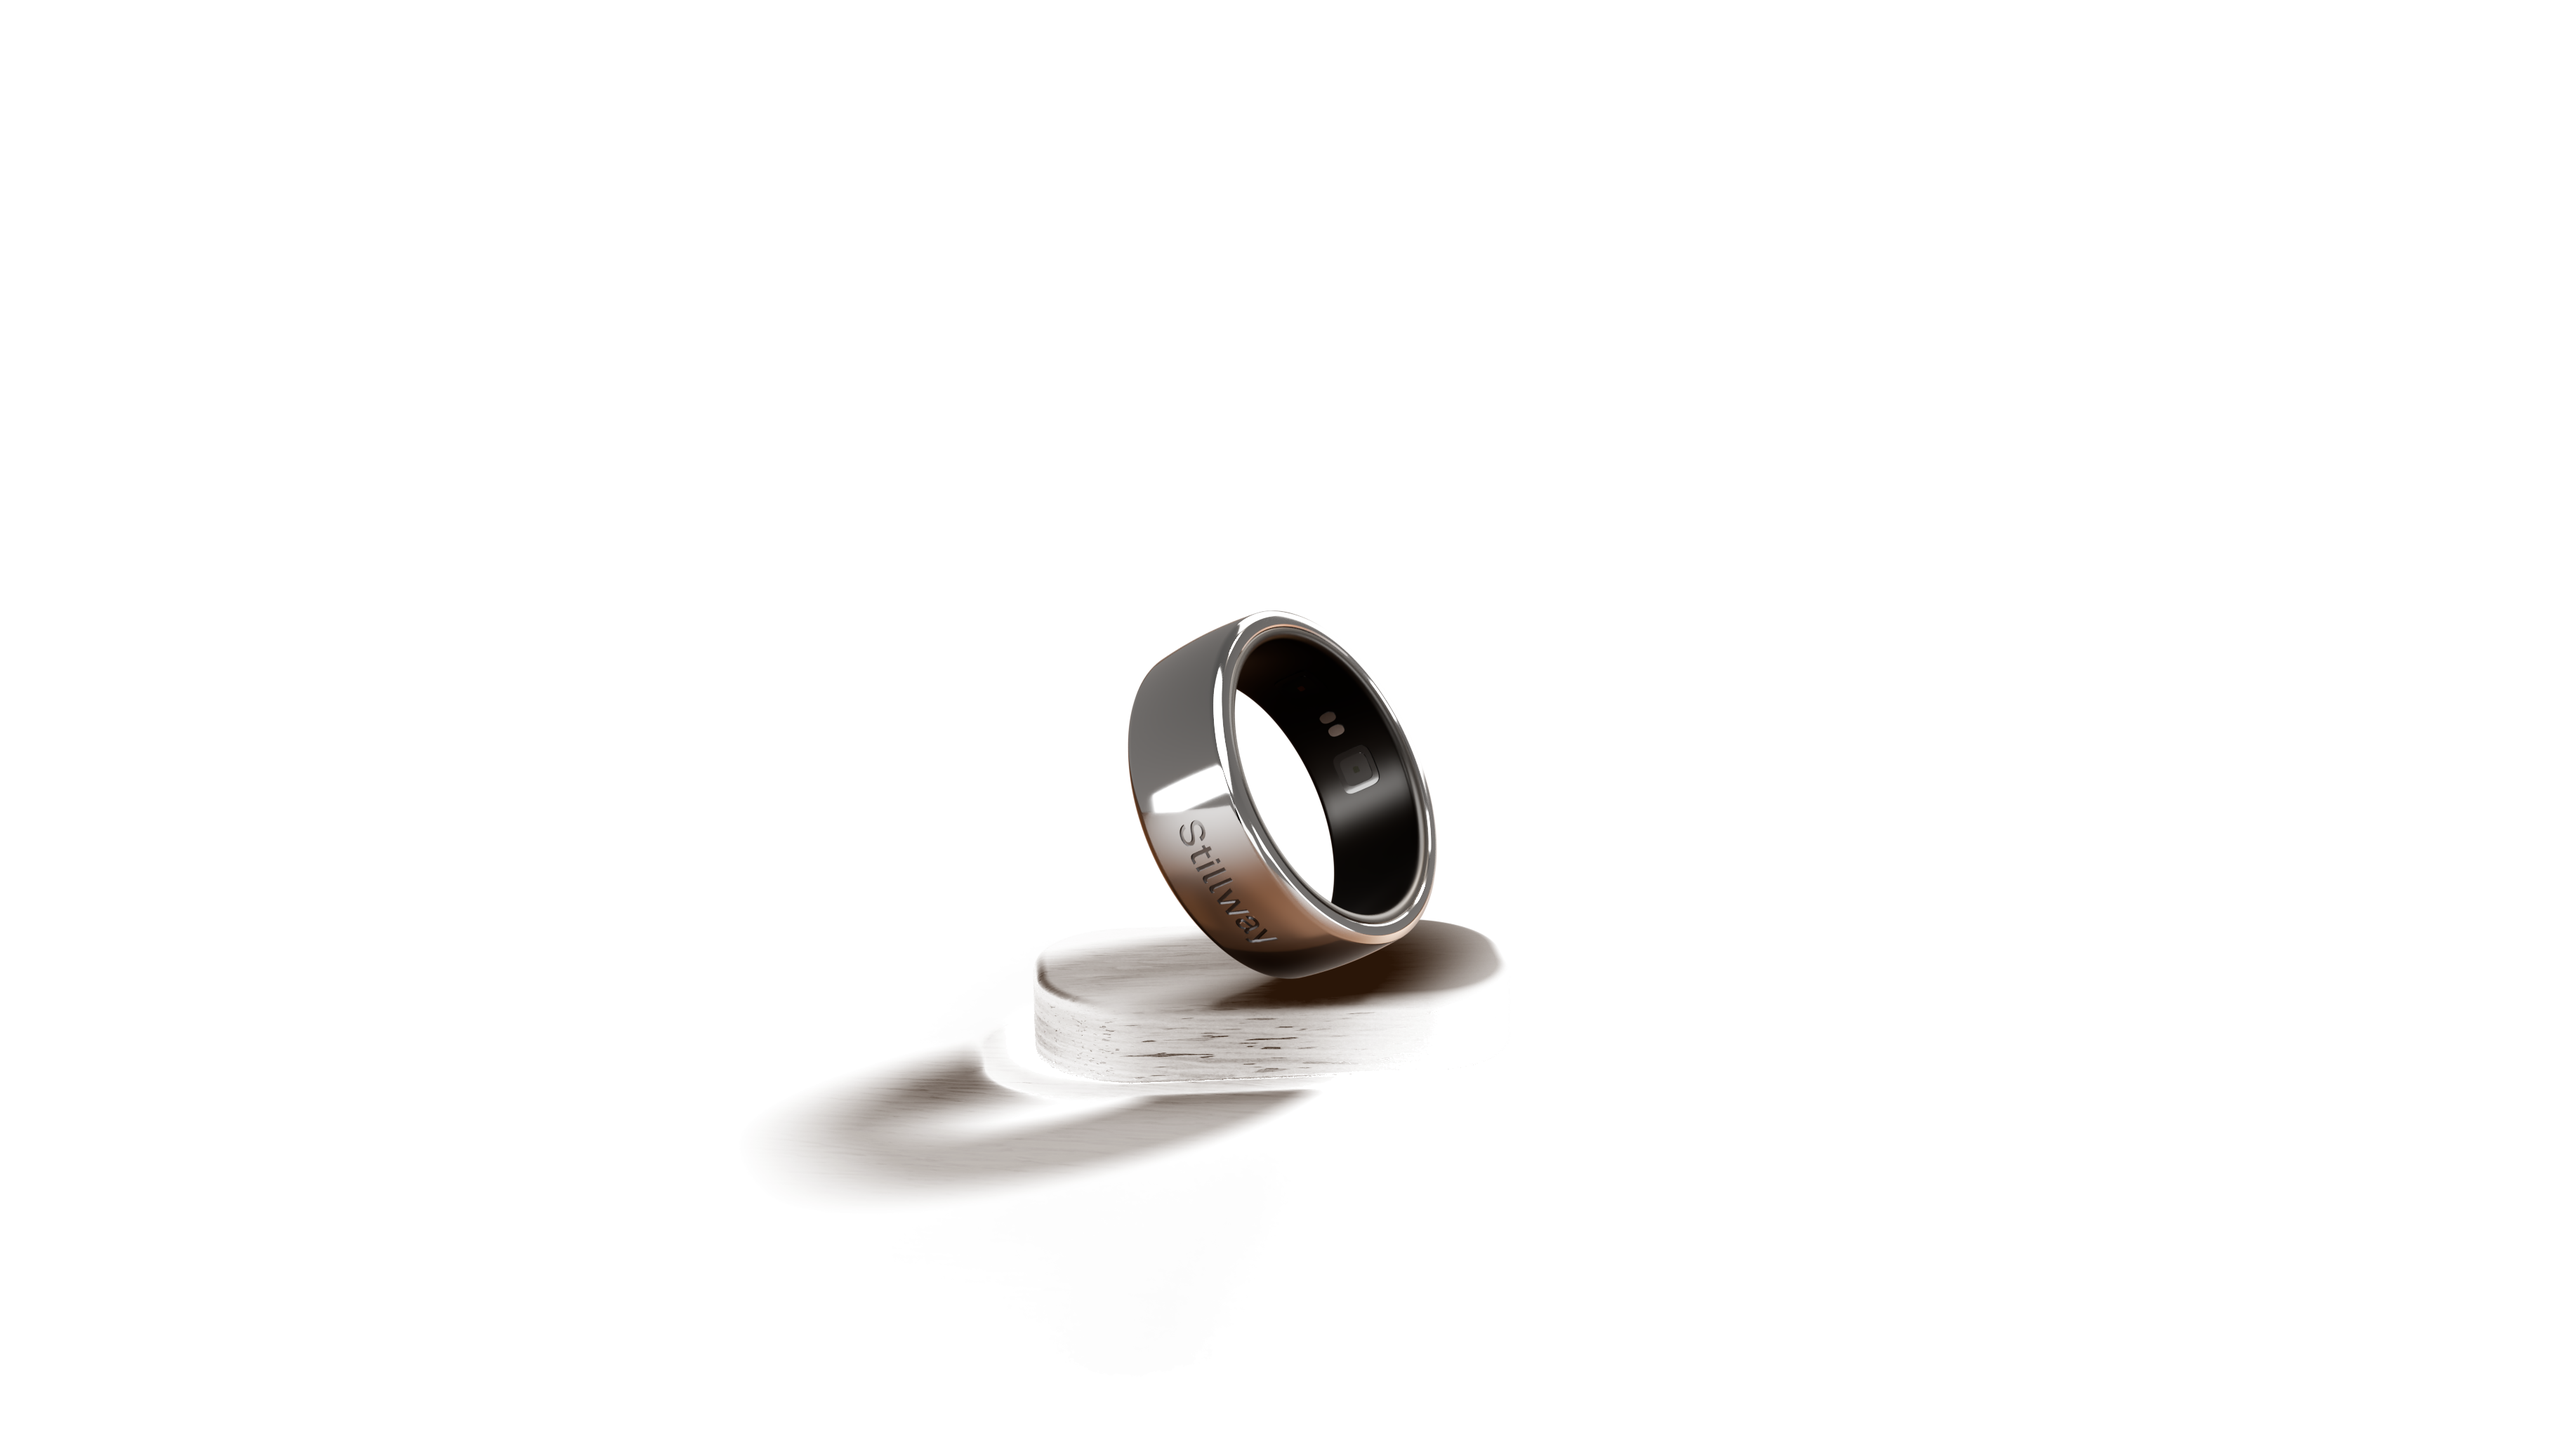
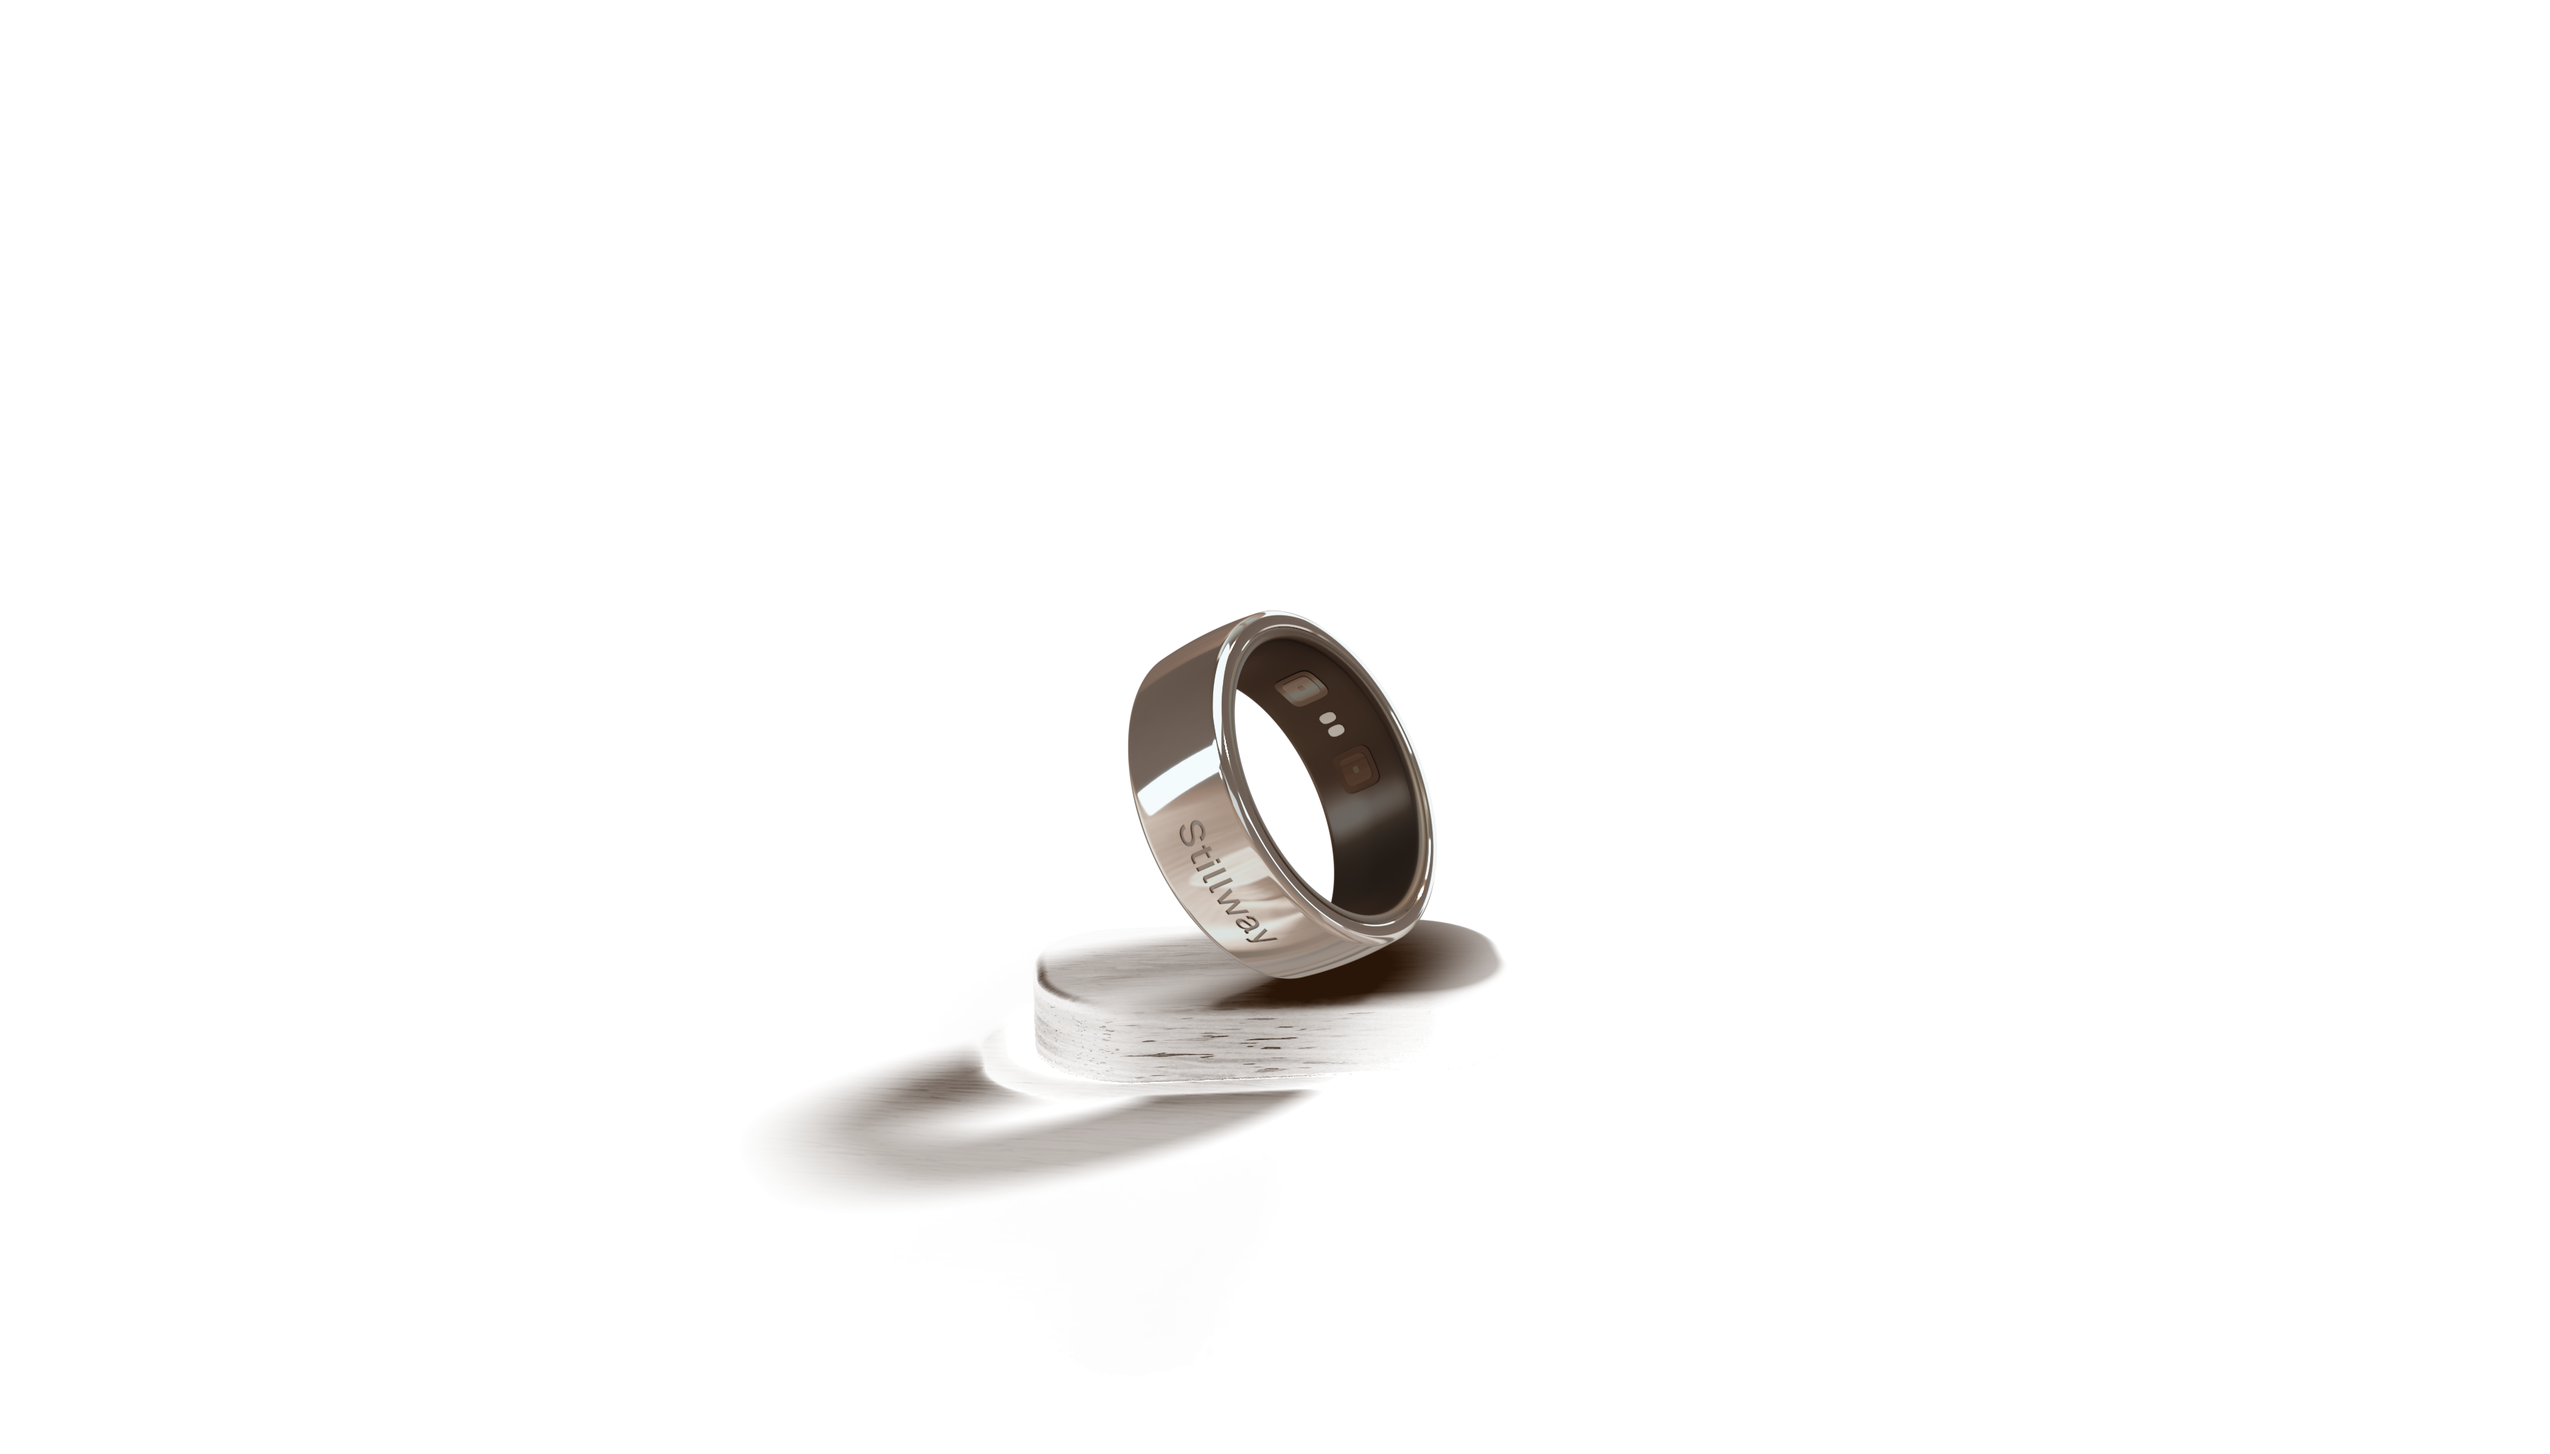
feat(3d): S01 poster ring matched to the D-182 live web ring (photo env + 25% paper, rig, silver tone), plates/GLB/pose unchanged (D-182b)

Changed region(s): [[0.4356, 0.4324, 0.56, 0.6795]]

diff --git a/design/3d/v2/s01-ring-live-pass.py b/design/3d/v2/s01-ring-live-pass.py
@@ -1,0 +1,171 @@
+"""
+D-182b: S01 poster RING pass matched to the live web ring (Developer a7eea87, D-182). Only RG/RGm change.
+    Blender -b -P design/3d/v2/s01-ring-live-pass.py          # then: s01-plate-build.py -- comp
+Cycles render of the ring alone, lit like the web at rest: env = hero-env-warm.jpg (rotated 0.6 pi, seam
+cross-faded) with 25 % paper env, in CAMERA space (the web camera never turns); web rig (sun, hemisphere,
+fill, desk key); web band material; AgX, exposure 1.15. Then a monotonic luma curve maps the ring's
+p05/25/50/75/95 (1440@2x web rest frame) to the live values and per-channel gains set the live mean colour.
+"""
+import bpy, os, math, importlib.util
+import numpy as np
+from mathutils import Vector
+
+HERE = os.path.dirname(os.path.abspath(__file__))
+spec = importlib.util.spec_from_file_location("pb", HERE + "/s01-plate-build.py")
+pb = importlib.util.module_from_spec(spec); spec.loader.exec_module(pb)
+ped, PASS = pb.ped, pb.PASS
+WEB_PHOTO = HERE + "/env/hero-env-warm.jpg"
+if not os.path.exists(WEB_PHOTO):
+    WEB_PHOTO = os.path.join(HERE, "../../../../Developer/web-v2/public/env/hero-env-warm.jpg")
+TARGET = (33, 50, 100, 155, 245)          # live ring luma p05..p95 (D-182)
+TARGET_RGB = np.array([120, 108, 99], np.float32)   # live mean colour (D-182, middle of the sway range)
+
+
+def pixels(img):
+    w, h = img.size
+    a = np.empty(w * h * 4, np.float32); img.pixels.foreach_get(a)
+    return a.reshape(h, w, 4)[..., :3]            # bottom-up
+
+
+def sample(a, u, v):
+    h, w = a.shape[:2]
+    x = (u % 1.0) * w - 0.5; y = np.clip(v, 0, 1) * h - 0.5
+    x0 = np.floor(x).astype(int); y0 = np.floor(y).astype(int)
+    fx = (x - x0)[..., None]; fy = (y - y0)[..., None]
+    g = lambda i, j: a[np.clip(j, 0, h - 1), i % w]
+    return (g(x0, y0) * (1 - fx) + g(x0 + 1, y0) * fx) * (1 - fy) + (g(x0, y0 + 1) * (1 - fx) + g(x0 + 1, y0 + 1) * fx) * fy
+
+
+def web_env(R):
+    """equirect in Blender world space holding the web's blended env (linear)"""
+    photo = pixels(bpy.data.images.load(WEB_PHOTO))               # sRGB values (byte image)
+    paper = pixels(bpy.data.images.load(ped.ENV))                 # linear EXR
+    W, H = 2048, 1024
+    u = (np.arange(W) + 0.5) / W; v = (np.arange(H) + 0.5) / H
+    phi = (u - 0.5) * 2 * math.pi; th = (v - 0.5) * math.pi
+    phi, th = np.meshgrid(phi, th)
+    # Blender equirect: u = 0.5 - atan2(y, x) / 2 pi
+    d = np.stack([np.cos(th) * np.cos(-phi), np.cos(th) * np.sin(-phi), np.sin(th)], -1)
+    c = d @ np.array(R, np.float64)                               # camera space: x right, y up, z back (= three world)
+    rot = math.pi * 0.6; cs, sn = math.cos(rot), math.sin(rot)
+    r = np.stack([cs * c[..., 0] + sn * c[..., 2], c[..., 1], -sn * c[..., 0] + cs * c[..., 2]], -1)
+    equi = lambda q: (np.arctan2(q[..., 2], q[..., 0]) / (2 * math.pi) + 0.5, np.arcsin(np.clip(q[..., 1], -1, 1)) / math.pi + 0.5)
+    pu, pv = equi(r)
+    t = np.clip(np.minimum(pu, 1 - pu) / 0.12, 0, 1); seam = (0.5 * (1 - t * t * (3 - 2 * t)))[..., None]
+    a = pb.eotf(sample(photo, pu, pv)) * (1 - seam) + pb.eotf(sample(photo, 1 - pu, pv)) * seam
+    b = sample(paper, *equi(c))
+    out = a * 0.75 + b * 0.25
+    # hemisphere light (0.55, plus the desk's 0.25): uniform-sky equivalent radiance = irradiance / pi
+    k = (c[..., 1:2] * 0.5 + 0.5)
+    lin = lambda hexc: pb.eotf(np.array([(hexc >> s & 255) / 255 for s in (16, 8, 0)]))
+    out += (lin(0x8a6040) * (1 - k) + lin(0x5a4a3e) * k) * 0.55 / math.pi
+    img = bpy.data.images.new("web_env", W, H, alpha=True, float_buffer=True)
+    rgba = np.ones((H, W, 4), np.float32); rgba[..., :3] = out
+    img.pixels.foreach_set(rgba.ravel()); img.pack()
+    return img
+
+
+DARK_TINT = np.array([1.17, 0.98, 0.85], np.float32)
+
+
+def lin_hex(h): return tuple(float(pb.eotf(np.float32((h >> s & 255) / 255))) for s in (16, 8, 0))
+
+
+def setup_web_look(S):
+    sc = bpy.context.scene
+    R = S["cam"].matrix_world.to_3x3().normalized()
+    nt = sc.world.node_tree
+    env = nt.nodes.new("ShaderNodeTexEnvironment"); env.image = web_env([list(r) for r in R])
+    bg = nt.nodes.new("ShaderNodeBackground"); bg.inputs["Strength"].default_value = float(os.environ.get("WEB_ENV", "1.0"))
+    nt.links.new(env.outputs[0], bg.inputs[0])
+    nt.links.new(bg.outputs[0], [n for n in nt.nodes if n.type == 'OUTPUT_WORLD'][0].inputs[0])
+    def sun(name, to_light, color, strength):
+        l = bpy.data.lights.new(name, 'SUN'); l.energy = strength; l.color = color; l.angle = math.radians(4)
+        o = bpy.data.objects.new(name, l); sc.collection.objects.link(o)
+        o.rotation_euler = Vector(to_light).normalized().to_track_quat('Z', 'Y').to_euler()
+    sun("web_sun", R @ Vector((720, 640, 420)), lin_hex(0xffdcb2), 2.6)
+    sun("web_fill", R @ Vector((-700, 120, 600)), lin_hex(0xffe7cf), 0.35)
+    sun("web_desk_key", (0.5702, 0.3602, 0.7383), lin_hex(0xffb370), 1.0)
+    S["key"].hide_render = True
+    bpy.data.lights["Lamp_Spill"].energy = 0.0
+    # web band material (stage.ts): neutral, roughness 0.06, no anisotropy / normal map
+    for o in S["ring"]:
+        for slot in o.material_slots:
+            m = slot.material
+            b = next((n for n in m.node_tree.nodes if n.type == 'BSDF_PRINCIPLED'), None)
+            if not b or b.inputs["Metallic"].default_value < 0.5 or "ngrav" in m.name.lower() or "liner" in m.name.lower() or "contact" in m.name.lower():
+                continue
+            for key, val in (("Base Color", (0.92, 0.92, 0.93, 1)), ("Roughness", 0.06), ("Anisotropic", 0.0)):
+                for ln in list(b.inputs[key].links): m.node_tree.links.remove(ln)
+                b.inputs[key].default_value = val
+            for ln in list(b.inputs["Normal"].links): m.node_tree.links.remove(ln)
+            print("PLATE web band material", m.name)
+
+
+def render():
+    S = pb.scene_setup()
+    setup_web_look(S)
+    sc = bpy.context.scene
+    pb.show(S["ped"], 'off'); pb.show(S["desk"], 'off'); pb.show(S["proxy"], 'off'); pb.show(S["ring"], 'on')
+    s = sc.render.image_settings
+    s.file_format = 'PNG'; s.color_mode = 'RGBA'; s.color_depth = '16'; s.compression = 15
+    sc.view_settings.view_transform = 'AgX'; sc.view_settings.look = 'None'
+    sc.view_settings.exposure = math.log2(1.15)
+    sc.cycles.samples = pb.SPP
+    for sfx, border, lens, shift in (("", pb.BORDER, ped.CAM["lens"], ped.CAM["shift"]), ("m", pb.BORDER_M, pb.MOB_LENS, pb.MOB_SHIFT)):
+        S["cam"].data.lens = lens; S["cam"].data.shift_x, S["cam"].data.shift_y = shift
+        sc.render.border_min_x, sc.render.border_max_x, sc.render.border_min_y, sc.render.border_max_y = border
+        sc.render.filepath = f"{PASS}/RG{sfx}_lin.png"
+        bpy.ops.render.render(write_still=True)
+
+
+LUMA = np.array([0.2126, 0.7152, 0.0722], np.float32)
+
+
+def stats(rgba):
+    fr = pb.webframe(rgba, 2880, 1800)
+    m = fr[..., 3] > 0.98
+    rgb = fr[..., :3][m]
+    return [float(np.percentile(rgb @ LUMA * 255, q)) for q in (5, 25, 50, 75, 95)], rgb.mean(0) * 255
+
+
+def apply(rgba, xs, ys, gain):
+    rgb = rgba[..., :3]
+    L = rgb @ LUMA * 255
+    new = np.interp(L, xs, ys).astype(np.float32)
+    # add the luma difference (keeps the render's chroma, no blow-up in the blacks), then tint
+    out = np.clip(rgb + ((new - L) / 255)[..., None], 0, 1) * gain
+    # the live liner and dark reflections are warm brown, not grey: tint the darks, luma unchanged
+    y = (out @ LUMA)[..., None]
+    w = np.clip((120 / 255 - y) / (70 / 255), 0, 1)
+    warm = DARK_TINT / (DARK_TINT @ LUMA)
+    out = out * (1 + (warm - 1) * w)
+    return np.concatenate([np.clip(out, 0, 1), rgba[..., 3:4]], -1)
+
+
+def grade():
+    bpy.ops.wm.read_factory_settings(use_empty=True)
+    raw = pb.load(f"{PASS}/RG_lin.png")
+    p, mean = stats(raw)
+    print("PLATE raw ring", [round(v) for v in p], mean.round())
+    xs = [0] + p + [255]; ys = [0] + list(TARGET) + [255]
+    gain = np.ones(3, np.float32)
+    for _ in range(6):          # curve and tint interact (clipping, interpolation): iterate
+        out = apply(raw, xs, ys, gain)
+        q, mean = stats(out)
+        ratio = TARGET_RGB / mean
+        gain = gain * (ratio / (ratio @ LUMA))     # hue only; the curve owns the level
+        q, mean = stats(apply(raw, xs, ys, gain))
+        ys = [0] + [float(y + (t - v)) for y, v, t in zip(ys[1:-1], q, TARGET)] + [255]
+        ys = list(np.maximum.accumulate(ys))
+    for sfx in ("", "m"):
+        out = apply(pb.load(f"{PASS}/RG{sfx}_lin.png"), xs, ys, gain)
+        pb.save(out, f"{PASS}/RG{sfx}.png")
+        q, mean = stats(out)
+        print("PLATE ring", sfx or "desktop", [round(v) for v in q], mean.round())
+    print("PLATE curve", [round(float(v)) for v in xs], [round(float(v)) for v in ys], gain)
+
+
+if __name__ == "__main__":
+    if not os.environ.get("GRADE_ONLY"): render()
+    grade()

diff --git a/design/3d/v2/HANDOFF-s01-pedestal.md b/design/3d/v2/HANDOFF-s01-pedestal.md
@@ -61,6 +61,15 @@ Hanya pass ring yang dirender ulang. Plate tidak berubah. `still-s01(-mobile)-36
 - Bukti: `renders/s01-plate/s01-plate-ring-closeup-vs-figma.png`.
 - **Akibat untuk web:** pencocokan nada ring hidup vs poster dari D-181c perlu diulang terhadap poster baru.
 
+### D-182b: ring poster mengikuti ring hidup D-182 (Developer `a7eea87`)
+
+Hanya `still-s01(-mobile)-3632.png` dan `ring-overlay-s01(-mobile)-3632` yang berubah (nama sama). Plate, GLB, pose JSON, dan kontak AO tetap. Bagian nada ring di D-181d tidak berlaku lagi.
+
+- Skrip: `s01-ring-live-pass.py`, lalu `s01-plate-build.py -- comp`. Cycles dengan env web (`env/hero-env-warm.jpg` diputar 0,6π + 25% env paper, di ruang kamera), rig web, material band web, AgX exposure 1,15. Setelah itu kurva luma, gain warna, dan tint hangat pada bagian gelap (grade, bukan hasil fisik).
+- Luma piksel ring, 1440@2x frame diam, p05/25/50/75/95: **33 / 50 / 100 / 155 / 245** (target 33/50/100/155/245; sebelumnya 2/17/93/114/254).
+- Bukti: `renders/s01-plate/s01-ring-poster-vs-live-D182b.jpg` (kiri poster baru, kanan crop ring hidup dari `D182_poster_left_live_right.jpg`; crop tidak diregistrasi piksel).
+- Belum diuji di web (cross-fade) dan 375 tidak disetel ke angka ring hidup ponsel (p50 66). Di crop bukti, ring hidup tampak lebih sempit daripada poster; pose tidak diubah, Developer perlu memeriksa apakah itu ayunan/tilt saat capture.
+
 ### File
 
 Semua 3632×2072, frame dan kamera sama dengan foto latar. Folder `plate/`:
